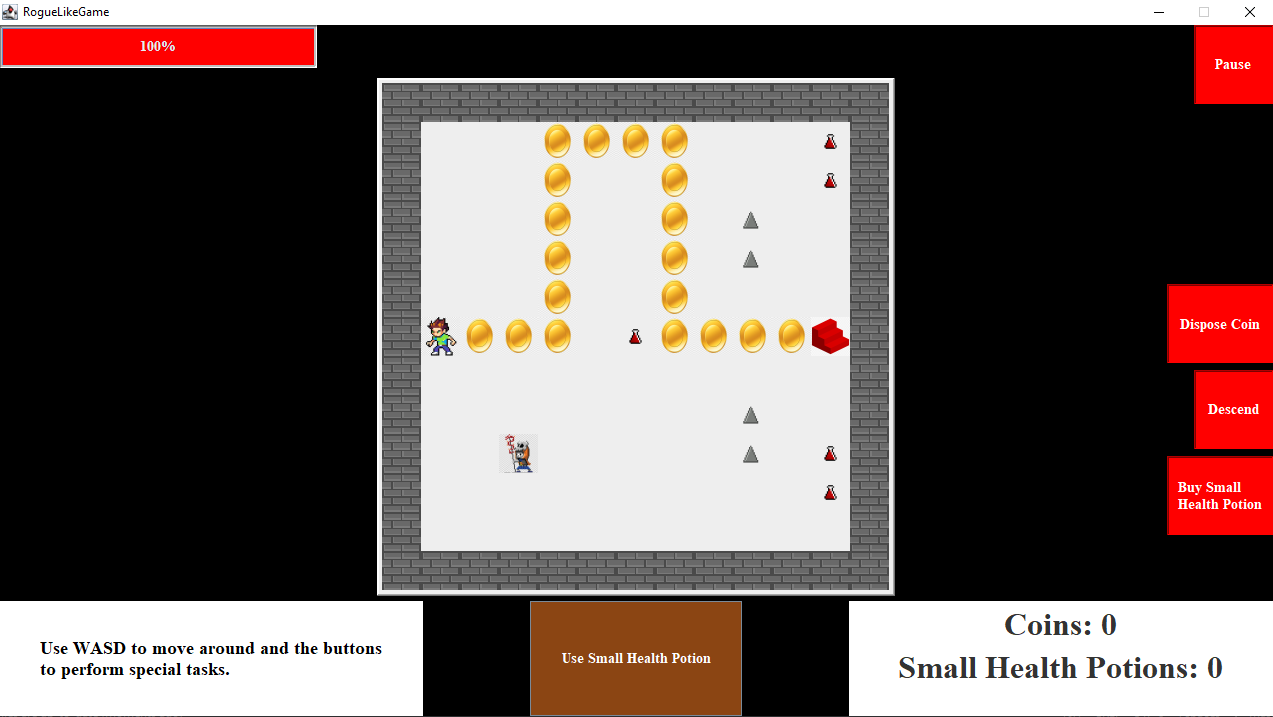
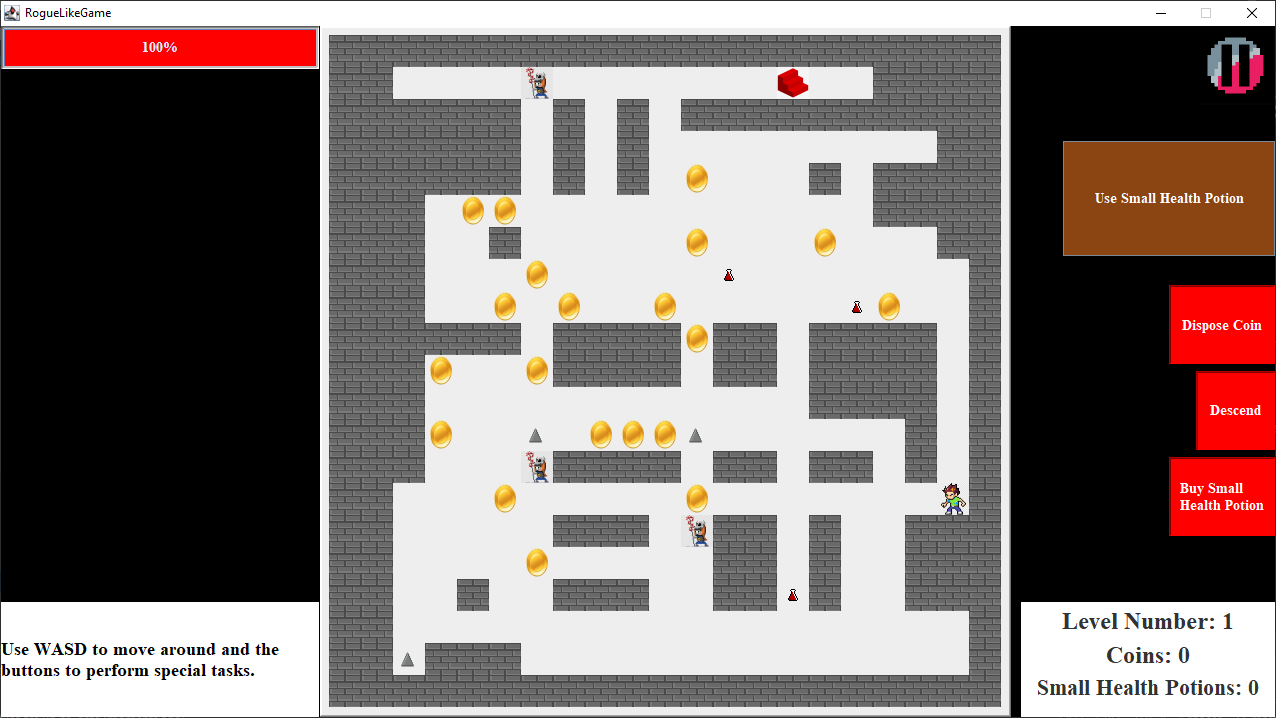
README.md Finalization

diff --git a/src/main/model/Game.java b/src/main/model/Game.java
@@ -26,7 +26,7 @@ public class Game implements Writable, Serializable {
     public static final int NUMBER_OF_SPIKES = 3;
     public static final int NUMBER_OF_COINS = 20;
     public static final int NUMBER_OF_SMALL_HEALTH_POTIONS = 3;
-    public static final int NUMBER_OF_ENEMIES = 3;
+    public static final int NUMBER_OF_ENEMIES = 7;
 
     // PROCEDURAL GENERATION
     public static final int MAX_TUNNEL_LENGTH = GAME_TERMINAL_WIDTH - 2;

diff --git a/README.md b/README.md
@@ -1,19 +1,27 @@
-# ***A Procedurally Generated Rogue-like Dungeon***
+# ***Deep Dungeon - a procedurally generated roguelike dungeon***
 
 **This application is designed for anyone interested 
 in playing a rogue-like dungeon crawler that 
 provides an adequate challenge.**
 
-![](GameMapImage.png)
-
 ## *Game Specification*
 ### *Map*
-The game generates a *map* with walls, a single entry point, a single exit point, obstacles (spikes), an enemy,
+The game generates a *map* with walls, a single entry point, a single exit point, spikes, enemies,
 small health potions, and coins.
+
+![](GameMapImage.png)
+
+The enemies follow you around regardless of how many there are.
+
+![](EnemiesFollowYouAround.gif)
+
+The level changes each time you descend through the stairs.
+
+![](LevelChangesEachTime.gif)
  
 ### *Objective*
-The player starts at the entry point and must circumvent all obstacles and the enemy to reach the exit point 
-and descend to the next level. 
+The player starts at the entry point and must circumvent all spikes and enemies to reach the exit point 
+and descend to the next level. Upon descending through 3 levels the game is over.  
 
 ### *Mechanics*
 - The player has a single life.
@@ -31,19 +39,19 @@ bar reaches zero.
 
 I've played several Rogue-like dungeon games before:
 
-- *The Pokemon Mystery Dungeon Games*
-- *The Enchanted Cave 2*
-- *Hades*
+- *Hades (2018)*
+- *The Enchanted Cave 2 (2015)*
+- *Pokemon Mystery Dungeon: Blue Rescue Team (2005)*
 
-I’ve always wondered about how the games were made. 
+I’ve always wondered about how these games were made. 
 
-This project will allow me to explore this curiosity 
-of mine, while simultaneously implementing a pathfinding
-algorithm in a game-like context and also a procedural generation algorithm.
+This project allowed me to explore this curiosity 
+of mine, while simultaneously implementing an A* pathfinding algorithm for enemy AI and
+a Random Walker Algorithm for procedural map generation.
 
 ## *User Stories*
-### *Phase 1*`
-The following user stories have been implemented in phase 1.
+### *Phase 1*
+The following user stories were implemented in phase 1:
 
 - As a user, I want to be able to navigate a room using WASD. (check)
 - As a user, I want to be able to interact with the exit point to complete the level. (check) 
@@ -51,7 +59,7 @@ The following user stories have been implemented in phase 1.
 - As a user, I want to be able to add coins to my wallet as a count of my score. (check)
 
 ### *Phase 2*
-The following user stories have been implemented in phase 2.
+The following user stories were implemented in phase 2:
 
 - As a user, I want to be able to access a menu on starting the application. (check)
 - As a user, I want to be able to start a new game or load a saved game from a save file. (check)
@@ -59,7 +67,7 @@ The following user stories have been implemented in phase 2.
 - As a user, I want to have access to at least 3 save files. (check)
 
 ### *Post Phase 2*
-The following user stories have been implemented post phase 2 before beginning phase 3:
+The following user stories were implemented post phase 2 before beginning phase 3:
 
 - As a user, I want to be able to see an enemy on the map. (check)
 - As a user, I want to be able to pause the game and access a menu with options to
@@ -72,8 +80,8 @@ The following user stories have been implemented post phase 2 before beginning p
 - As a user, I want to be able to use Small Health Potions in my inventory to increase my health by 25. (check)
 
 ### *Phase 3*
-The following user stories will be implemented in phase 3.
-GUI Implemetation:
+The following user stories were implemented in phase 3:
+#### GUI Implemetation:
 - As a user, I want to be able to see a panel where all the Coins that have been
    added to the Player's Wallet are displayed. (check)
 - As a user, I want to be able to click a button to reduce 10 coins (Xs) in my wallet (Y) and buy a Small Health Potion. 
@@ -88,11 +96,14 @@ GUI Implemetation:
 - As a user, I want to be able to be able to hear a sound when I die or complete the game. (check)
 
 ### *Post Phase 3*
+The following user stories were implemented post phase 3 before beginning phase 4:
 - As a user, I want to be able to see graphical images to represent the game sprites. 
 
 ### *Phase 4*
+This phase involved increasing code robustness and refactoring to implement design patterns.
+
 #### *Phase 4: Task 2*
-I have chosen to implement a robust class in my model package. It contains 
+I chose to implement a robust class named Inventory in my model package. It contains 
 three methods that are tested for a checked exception, both when the exception is thrown and not thrown.
 
 Class Name: Inventory
@@ -100,6 +111,8 @@ Class Name: Inventory
 Method Names: addSmallHealthPotions(), addOneSmallHealthPotion(), addOneSmallHealthPotion()
 
 #### *Phase 4: Task 3*
+This is a discussion of future refactoring possibilities. 
+
 I would refactor the MainMenu, LoadGame, SaveGame, and PauseMenu classes so that they all extend
 an abstract menu class that implements the ActionListener interface. I would then override
 the actionPerformed() method belonging to that interface so that these subclasses would only have
@@ -108,14 +121,16 @@ the required additional functionality, and a large portion of repetitive code wo
 In future improvements of this project, I hope to use a pathfinding algorithm to allow enemies to follow the player, and
 a procedural generation algorithm for the level so that it has high replayability.
 
-## *Phase 5*
-**Pathfinding Implementation**
+### *Phase 5*
+The following user stories were implemented in phase 5:
+#### **Pathfinding Implementation**
 - As a user, I want to have an enemy follow me around as I move.
 - As a user, I want to have multiple enemies follow me around as I move.
 - As a user, I want to be able to be trapped by enemies so that I'm forced to either quit or die to lose the game.
 
-## *Phase 6*
-**Procedural Generation Implementation Using A Random Walker Algorithm**
+### *Phase 6*
+The following user stories were implemented in phase 6:
+#### **Procedural Generation Implementation Using A Random Walker Algorithm**
 - As a user, I want to have the level change completely every time I create a new game.
 - As a user, I want to have the level change every time I descend through the stairs.
 - As a user, I want to be able to descend through 3 dungeon levels before descending again to finish the game.
